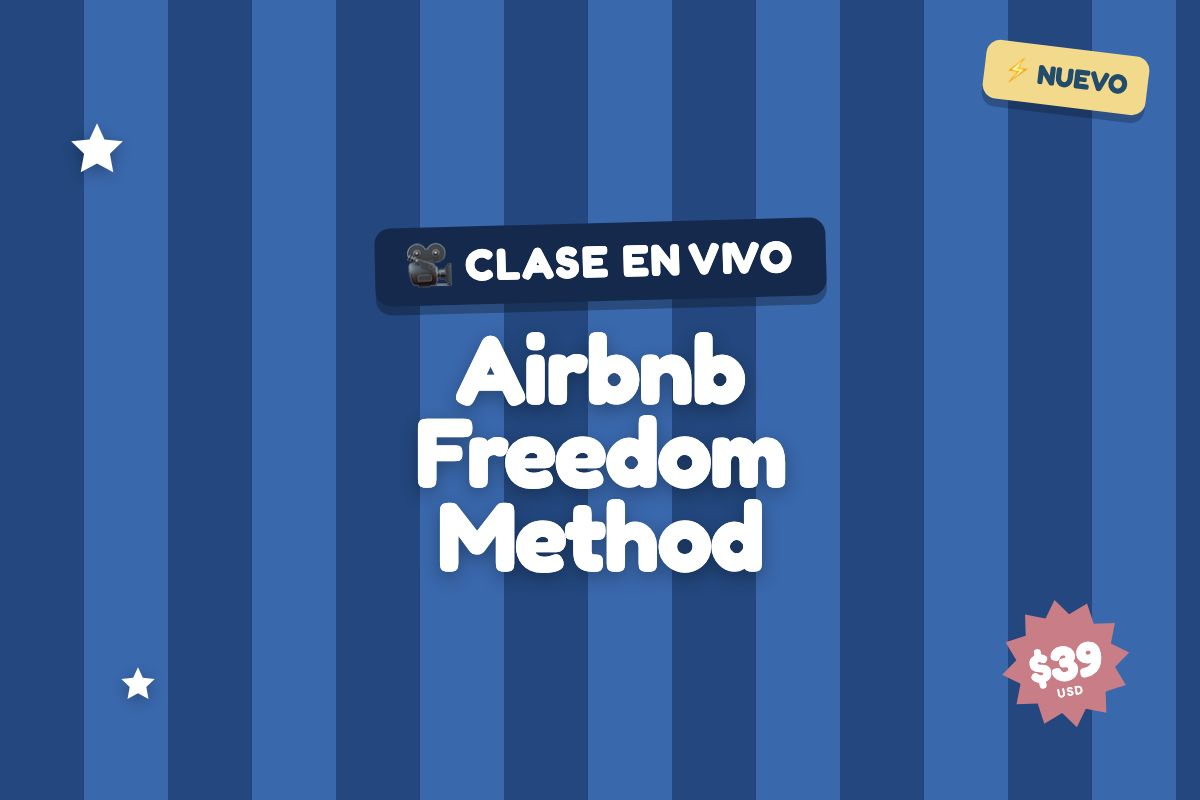
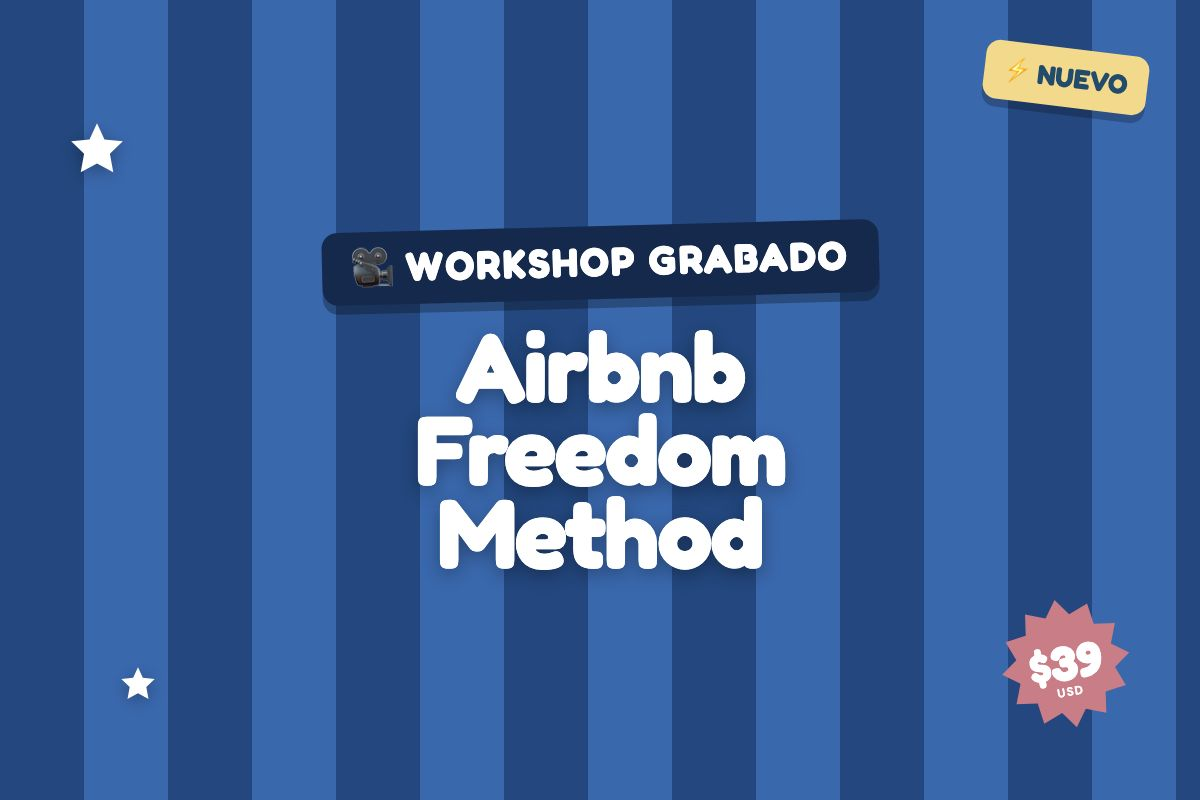
Freedom Method: etiqueta 'Workshop grabado' (en portada y tarjeta) para que se entienda que ya fue y no es una clase en vivo futura

diff --git a/aprende-conmigo.html b/aprende-conmigo.html
@@ -100,7 +100,7 @@ src="https://www.facebook.com/tr?id=1270112635290396&ev=PageView&noscript=1"/></
 <section class="page-hero">
   <span class="hand">Aprende conmigo 👋</span>
   <h1>Todo lo que tengo para ti</h1>
-  <p>Empieza por donde quieras: el curso completo, el método en vivo, un ebook para arrancar, plantillas listas, asesoría 1:1 y más.</p>
+  <p>Empieza por donde quieras: el curso completo, el workshop grabado, un ebook para arrancar, plantillas listas, asesoría 1:1 y más.</p>
 </section>
 
 <section class="shop">
@@ -122,7 +122,7 @@ src="https://www.facebook.com/tr?id=1270112635290396&ev=PageView&noscript=1"/></
       <div class="shop-card">
         <img class="cover" src="assets/cover-freedom.jpg" alt="Airbnb Freedom Method" loading="lazy">
         <div class="shop-body">
-          <div class="shop-cat">Clase en vivo</div>
+          <div class="shop-cat">Workshop grabado</div>
           <div class="shop-name">Airbnb Freedom Method</div>
           <div class="shop-desc">El m&#233;todo intensivo que grab&#233; en vivo, paso a paso. 8 sesiones de 1 hora en vivo, grabadas.</div>
           <div class="shop-price">$39 USD</div>

diff --git a/index.html b/index.html
@@ -2101,7 +2101,7 @@ src="https://www.facebook.com/tr?id=1270112635290396&ev=PageView&noscript=1"/></
     <div class="shop-card">
       <img class="cover" src="assets/cover-freedom.jpg" alt="Airbnb Freedom Method" loading="lazy">
       <div class="shop-body">
-        <div class="shop-cat">Clase en vivo</div>
+        <div class="shop-cat">Workshop grabado</div>
         <div class="shop-name">Airbnb Freedom Method</div>
         <div class="shop-desc">El método intensivo que grabé en vivo, paso a paso. 8 sesiones de 1 hora en vivo, grabadas.</div>
         <div class="shop-price">$39 USD</div>
